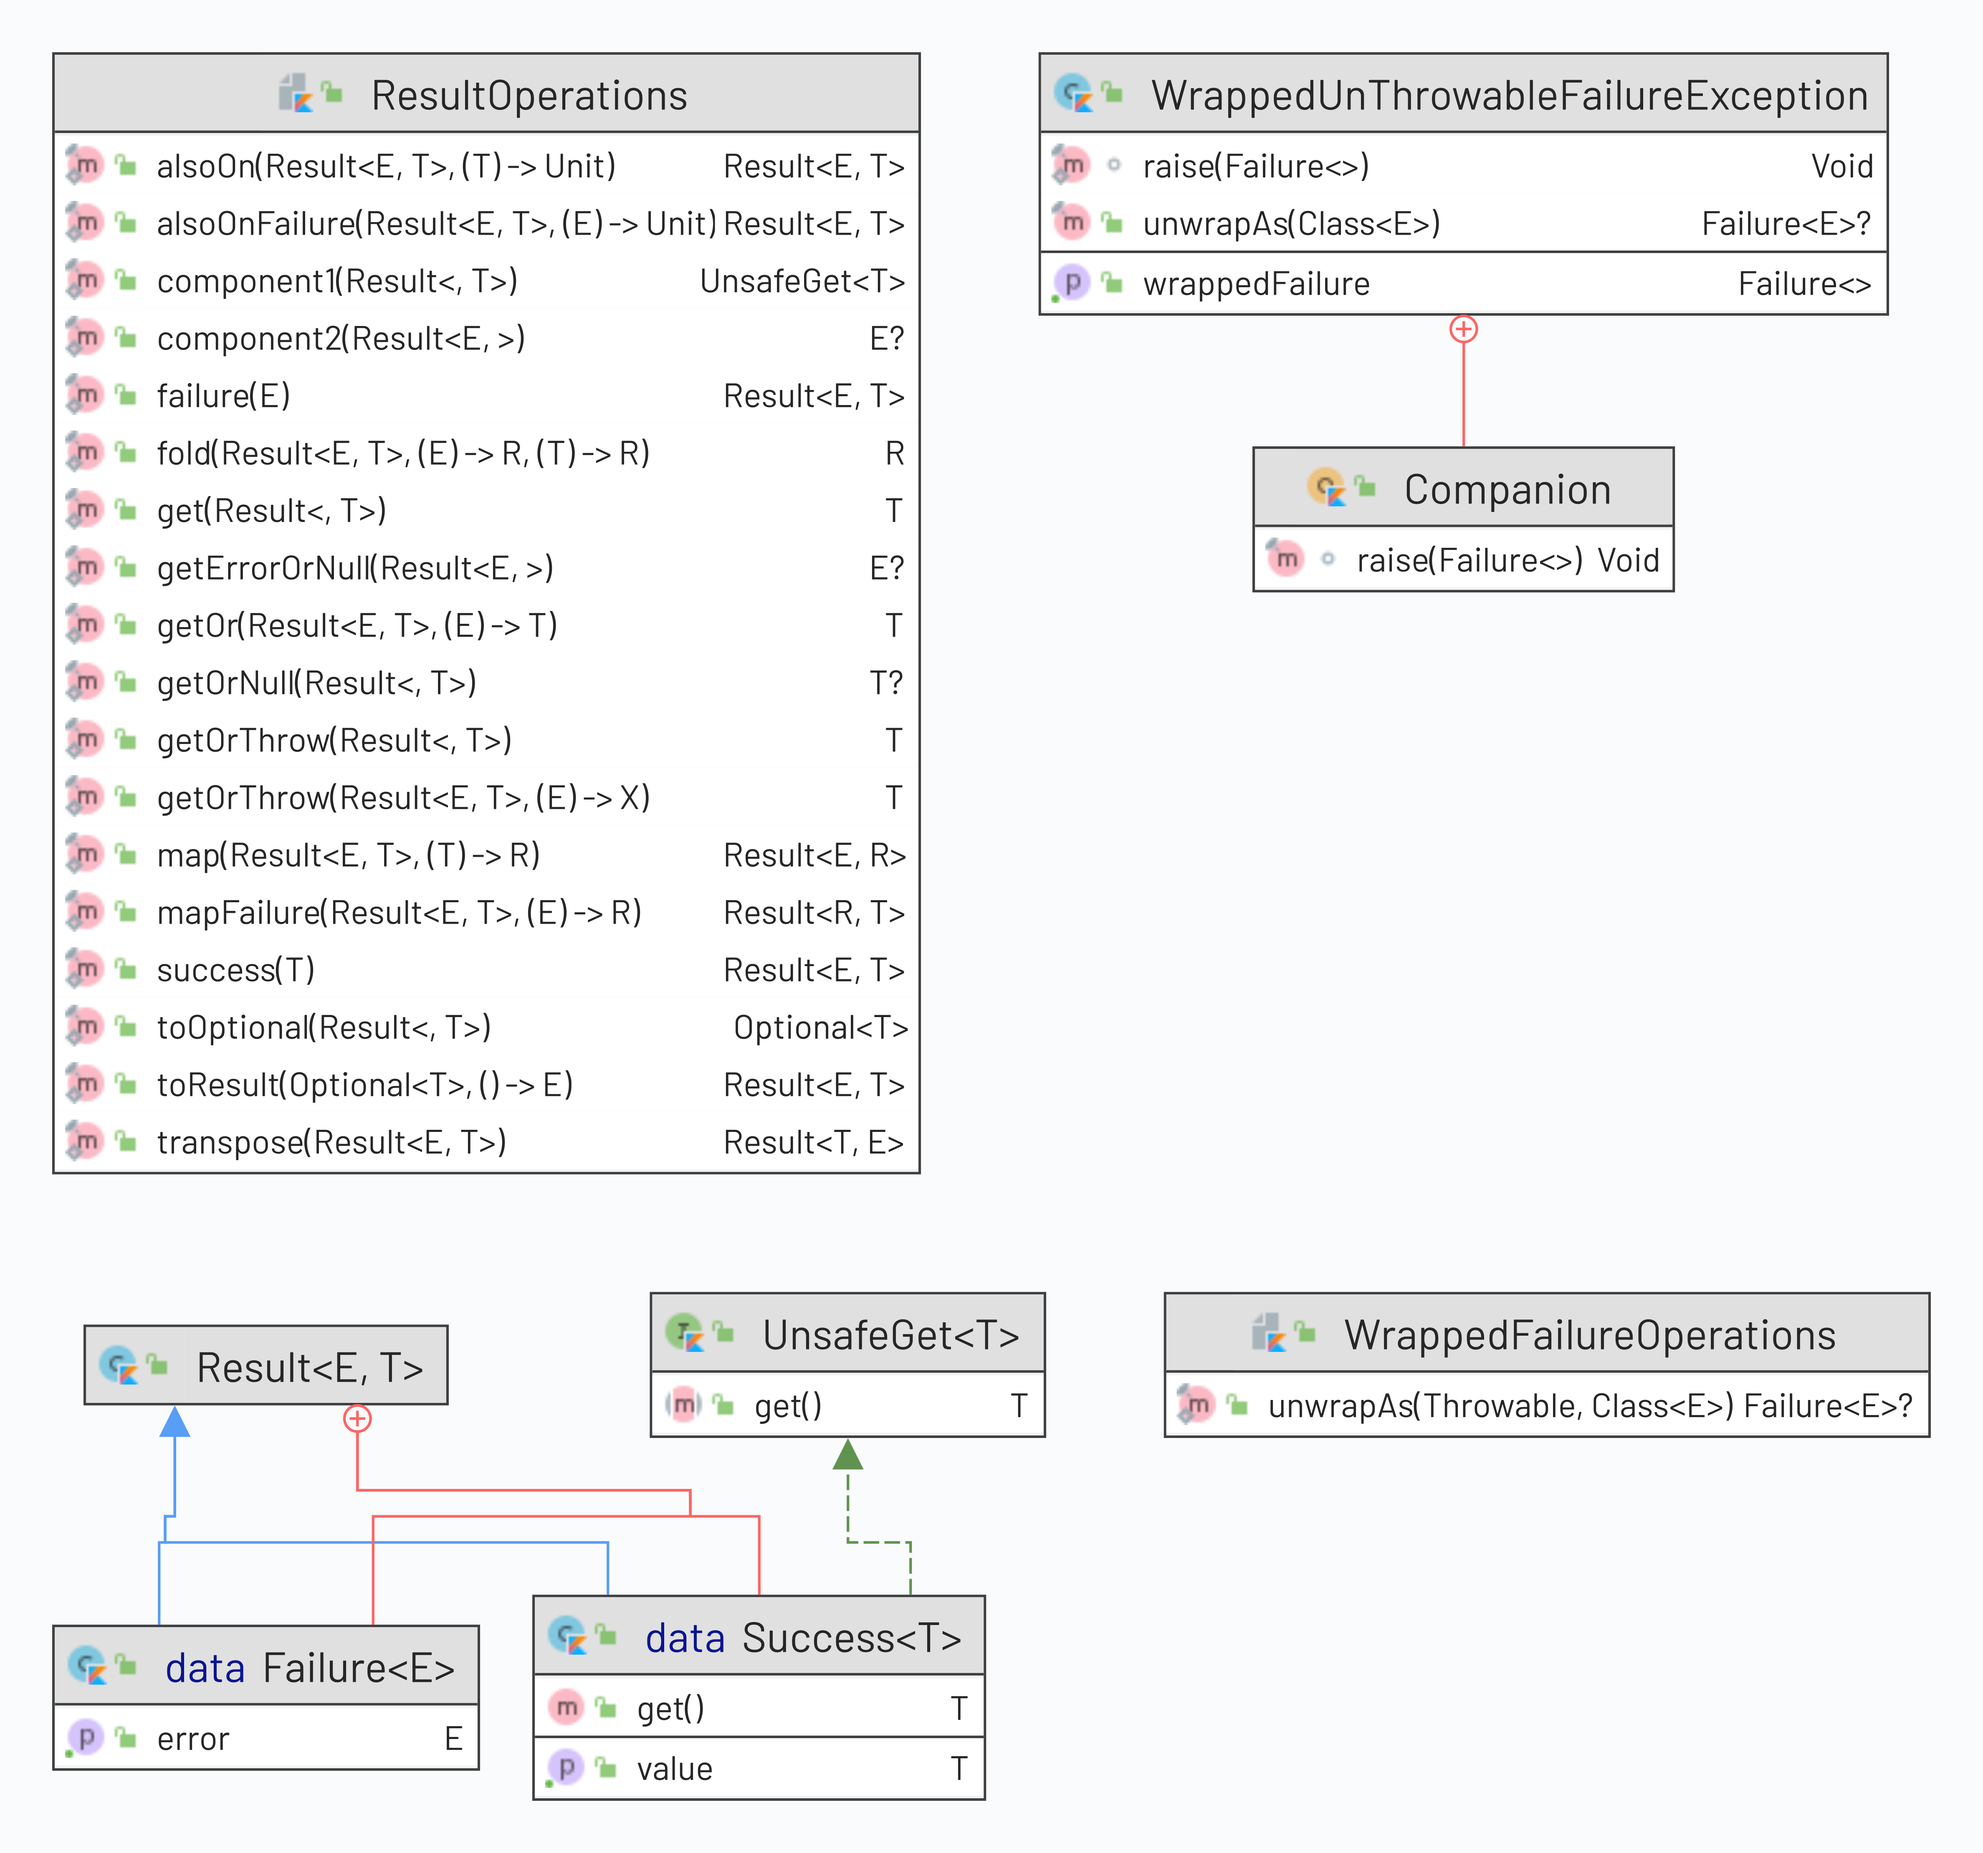
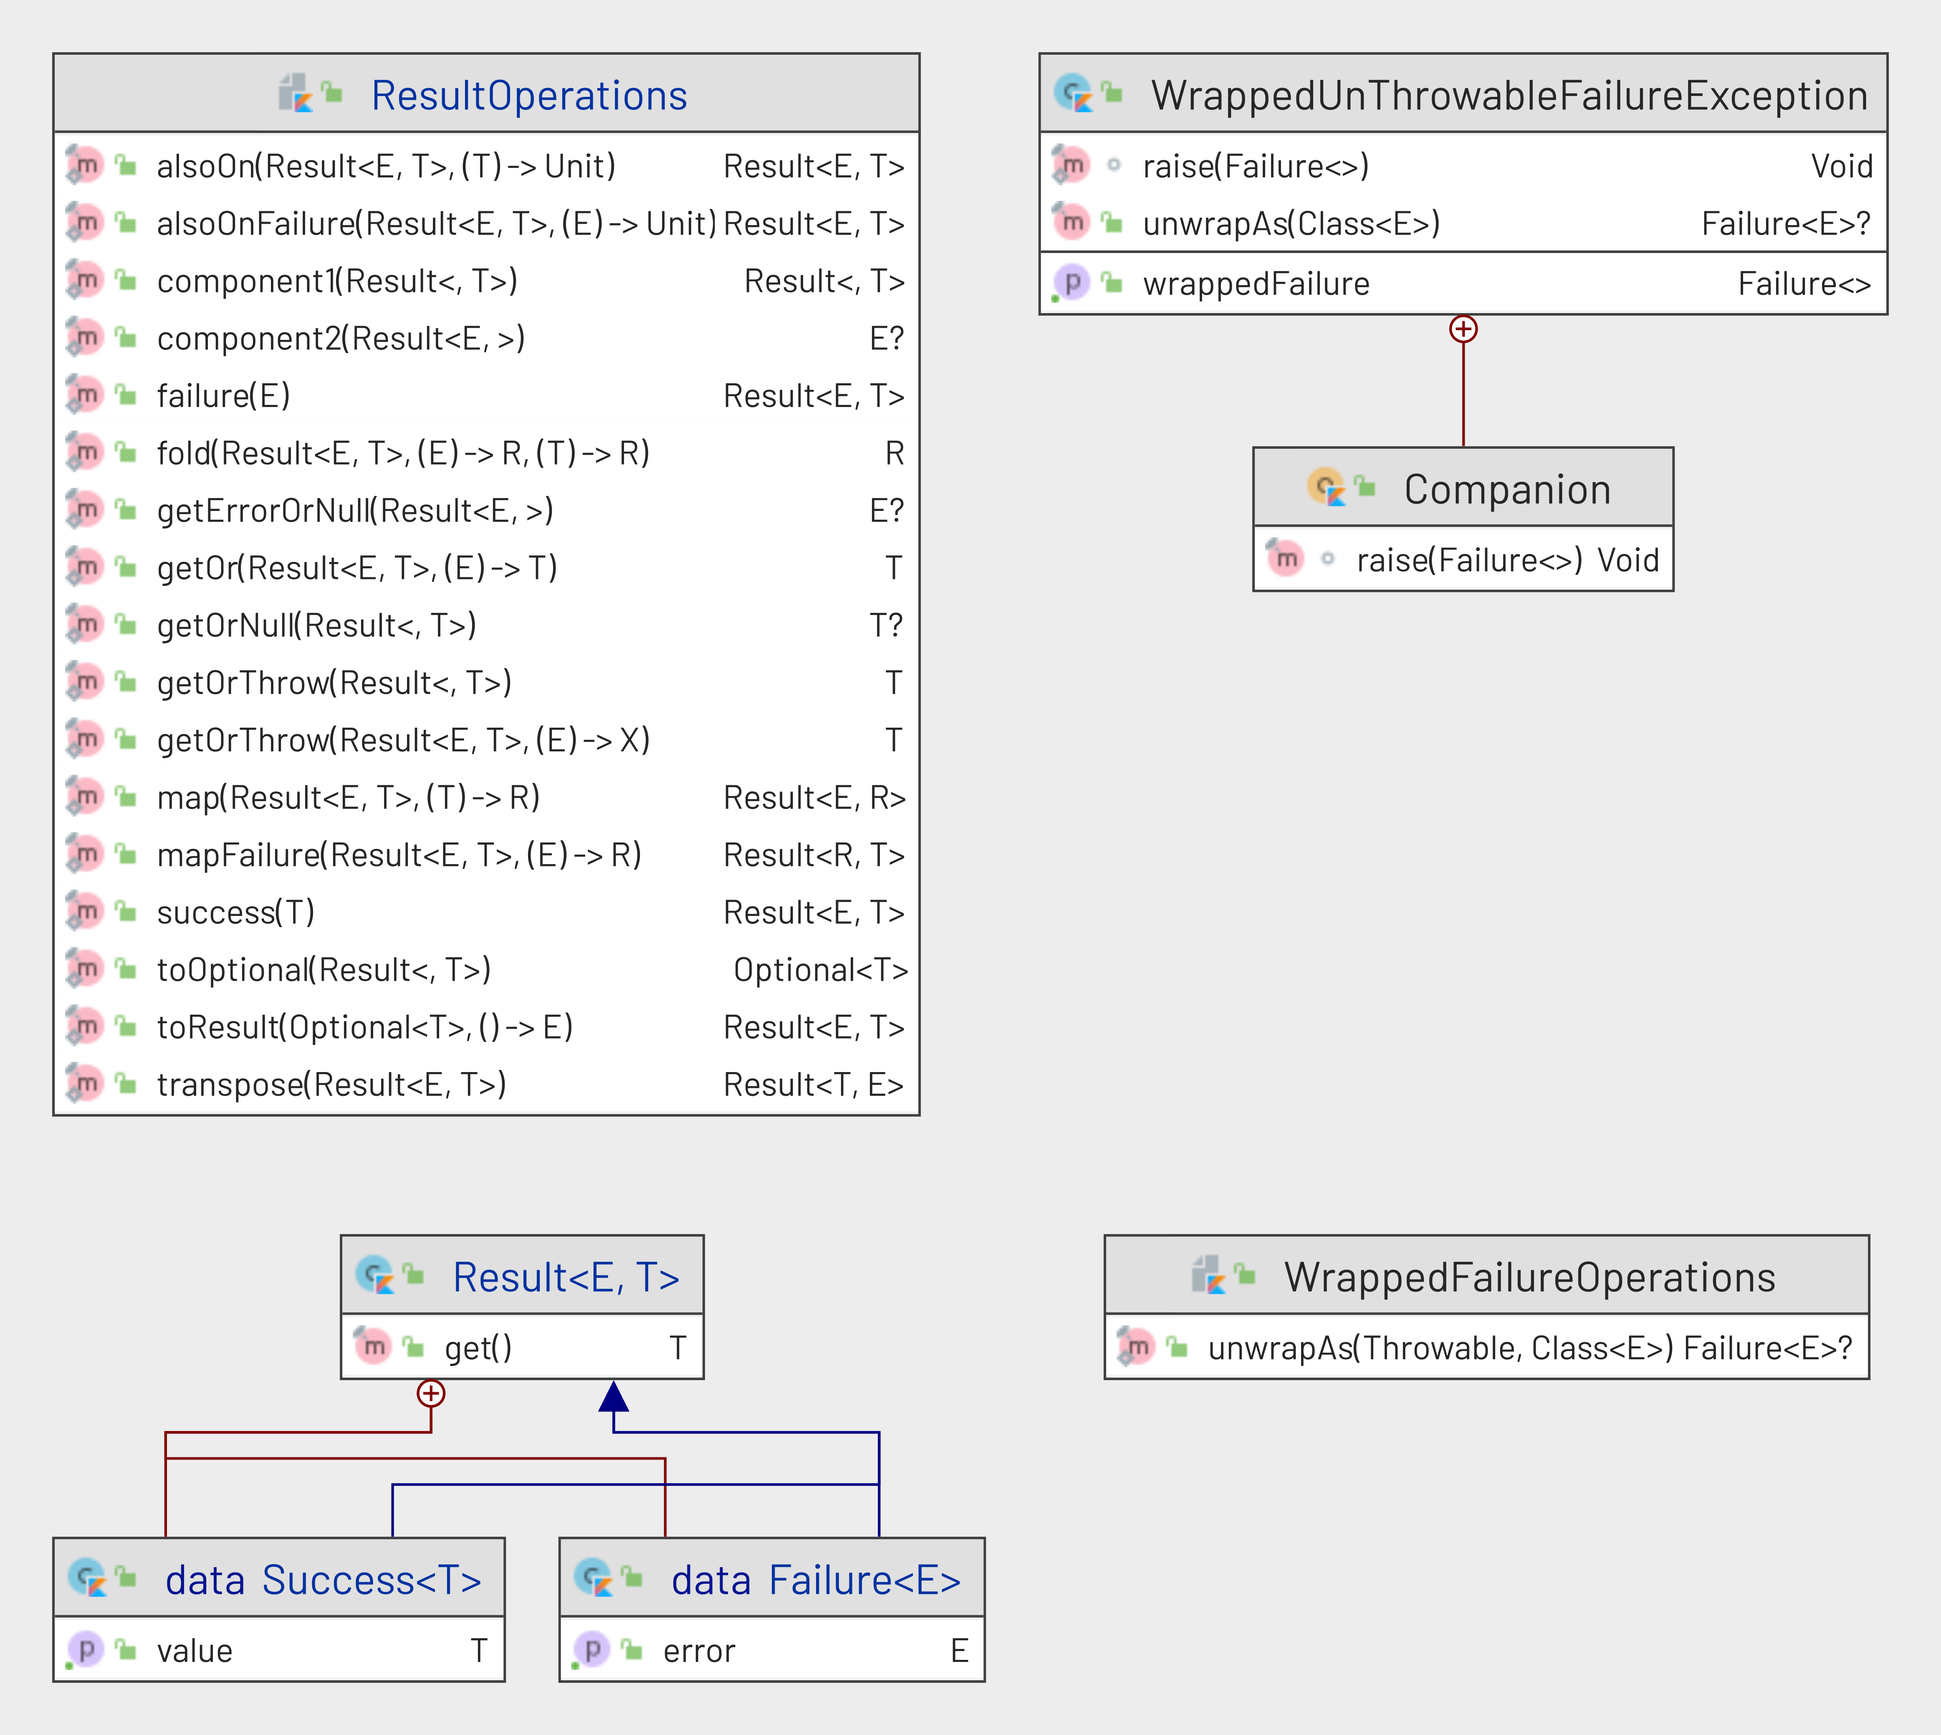
Removed unnecessary class.

diff --git a/lib/src/main/kotlin/io/github/andriesfc/resultk/result.kt b/lib/src/main/kotlin/io/github/andriesfc/resultk/result.kt
@@ -13,16 +13,14 @@ import java.util.*
  * @param E The error type
  * @param T The successful/expected value.
  */
-sealed class Result<out E, out T> {
+sealed class Result<out E, out T>  {
 
     /**
      * A successful/expected value.
      *
      * @property value The value returned.
      */
-    data class Success<T>(val value: T) : Result<Nothing, T>(), UnsafeGet<T> {
-        override fun get(): T = value
-    }
+    data class Success<T>(val value: T) : Result<Nothing, T>()
 
     /**
      * A failure/error value.
@@ -30,22 +28,19 @@ sealed class Result<out E, out T> {
      * @property error The error returned as an result.
      */
     data class Failure<E>(val error: E) : Result<E, Nothing>()
-}
-
-/**
- * A functional interface representing value which may throw an exception if the underlying value is a error.
- */
-fun interface UnsafeGet<out T> {
 
     /**
-     * Returns the expected value
-     *
-     * @throws WrappedUnThrowableFailureException if the underlying failure result is not an exception, otherwise the underlying
-     * exception is simply thrown.
+     * Calling [Result.get] is unsafe, as get may fail (in the case of a [Failure]) - causing the
+     * the [Failure] to be raised via the [WrappedUnThrowableFailureException.raise] function.
      */
-    @Throws(WrappedUnThrowableFailureException::class)
-    fun get(): T
+    fun get(): T {
+        return when (this) {
+            is Success -> value
+            is Failure -> WrappedUnThrowableFailureException.raise(this)
+        }
+    }
 }
+
 
 /**
  * Returns a getter for the of the successful result value in the first position, or
@@ -57,10 +52,7 @@ fun interface UnsafeGet<out T> {
  * @see UnsafeGet.get
  * @see WrappedUnThrowableFailureException.raise
  */
-operator fun <T> Result<*, T>.component1(): UnsafeGet<T> = when (this) {
-    is Failure -> UnsafeGet { WrappedUnThrowableFailureException.raise(this) }
-    is Success -> this
-}
+operator fun <T> Result<*, T>.component1(): Result<*,T> = this
 
 /**
  * Returns the actual error if present or `null` in the second position.
@@ -163,19 +155,6 @@ inline fun <E, T, X> Result<E, T>.getOrThrow(mapErrorToThrowable: (E) -> X): T w
  * @see [WrappedUnThrowableFailureException.unwrapAs]
  */
 fun <T> Result<*, T>.getOrThrow(): T = get()
-
-/**
- * Returns the value or throws an exception.
- *
- * @see WrappedUnThrowableFailureException
- * @see Result.Failure
- */
-fun <T> Result<*, T>.get(): T {
-    return when (this) {
-        is Failure -> WrappedUnThrowableFailureException.raise(this)
-        is Success -> value
-    }
-}
 
 /**
  * Returns an success value, or in the case of an error a `null` value.

diff --git a/lib/src/test/java/io/github/andriesfc/resultk/ResultFromJavaTest.java b/lib/src/test/java/io/github/andriesfc/resultk/ResultFromJavaTest.java
@@ -42,7 +42,7 @@ class ResultFromJavaTest {
         System.out.println(r);
 
         try {
-            System.out.println(ResultOperations.get(r));
+            System.out.println(r.get());
         } catch (Exception e) {
             var re = ResultOperations.getErrorOrNull(r);
             System.out.println(re);
